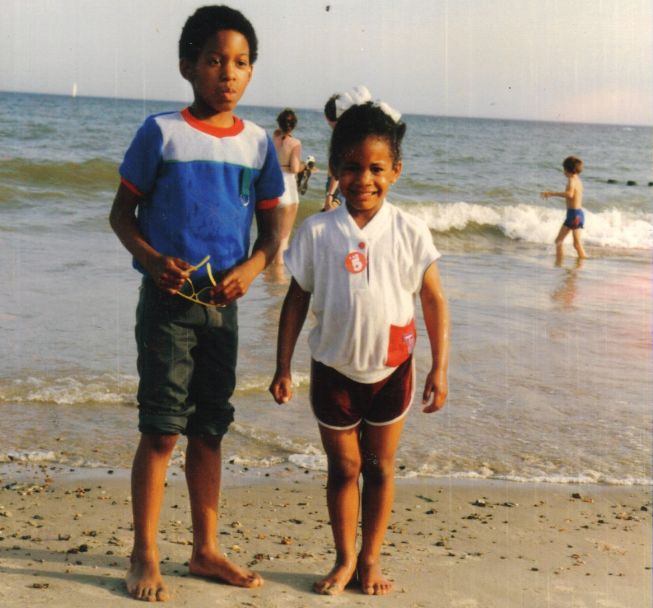
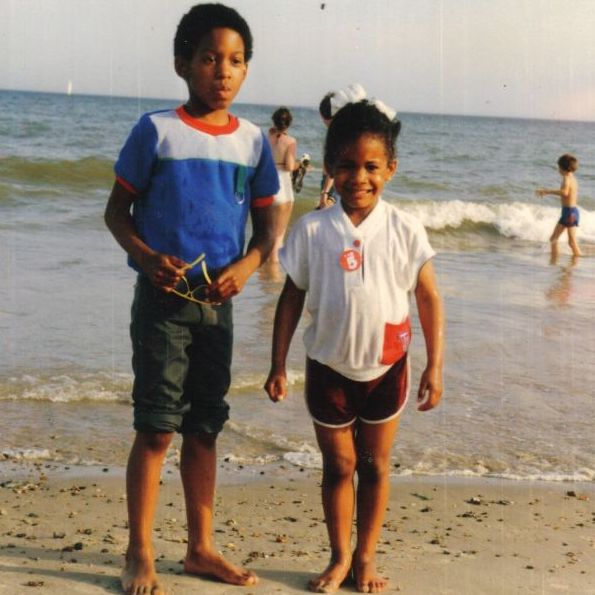
Responsive elements added to 'about-me.css'

diff --git a/term1/assignment2/html/about-me.html b/term1/assignment2/html/about-me.html
@@ -30,11 +30,13 @@
         I am the second oldest of 4 siblings and the first in our family to go to university.
         <br><br>
         I moved to Sydney in 2013 and have been here ever since. My family have visited many 
-        times over the years but I'm still trying to persuade them to leave the cold grey skies behind and move here permanently!
+        times over the years but I'm still trying to persuade them to leave the cold grey weather behind and move here permanently!
         </p>
+    </section>
+<section>
         <figure>
             <img src="/images/child-image.jpg" alt="Beach image">
-            <figcaption>With my older brother at a beach somewhere in England on what was 
+            <figcaption>With my older brother on a beach somewhere in England on what was 
                 supposed to be a "nice summer's day"</figcaption>
         </figure>
         <figure>

diff --git a/term1/assignment2/css/about-me.css b/term1/assignment2/css/about-me.css
@@ -40,10 +40,41 @@ figcaption{
 }
 
 @media only screen and (min-width: 400px){
+h2 {
+    font-size: 2rem
+}
 
-
-@media only screen and (min-width: 850px){
-
+p, figcaption {
+    font-size: 1.5rem;
+}
 
 }
+
+@media only screen and (min-width: 850px){
+    h2 {
+        font-size: 2rem
+    }
+    
+    p, figcaption {
+        font-size: 1.1rem;
+    }
+    
+    img {
+   
+        max-width: 25vw;
+    
+    }
+
+    figure{
+        display: flex;
+        flex-direction: column;
+        
+        margin: 2vh 0;
+        
+    }
+
+    section:last-of-type {
+        flex-direction: row;
+    }
+
 }
